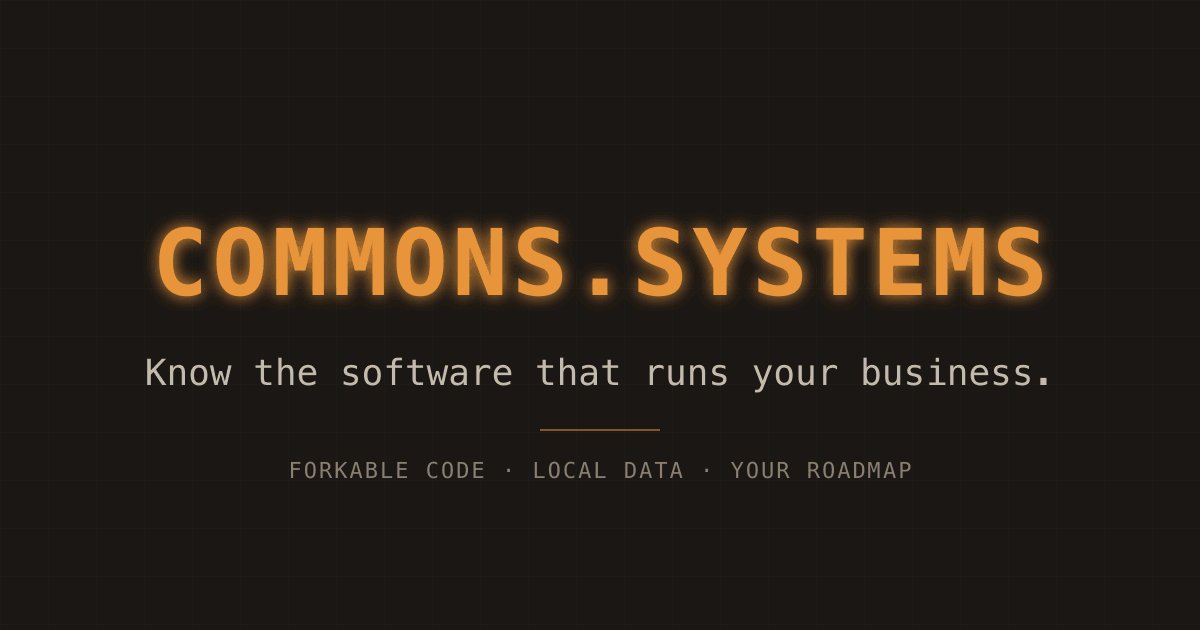
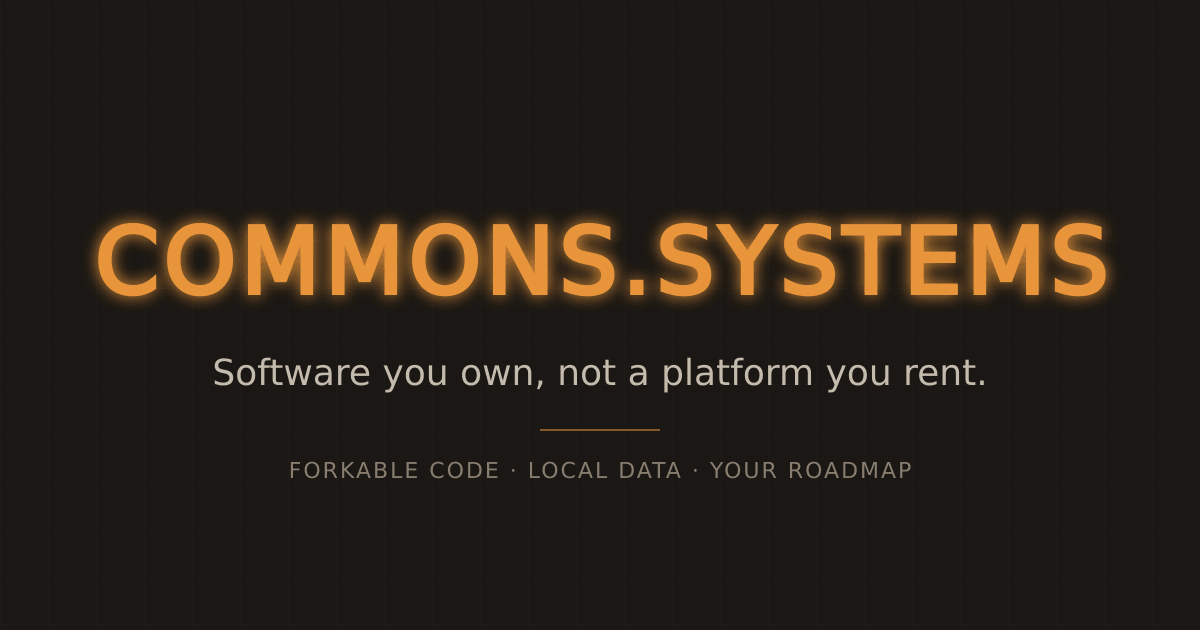
Reposition the landing hero around owned, intent-aligned autonomy — tagline moves from a knowing/feature register to ownership / not-a-platform, synced byte-identical across the four coupled surfaces (hero tagline, meta description, site-config description, OG card) with the OG PNG regenerated (#210

Changed region(s): [[0.0617, 0.3317, 0.925, 0.4825], [0.1233, 0.573, 0.8633, 0.6333], [0.2467, 0.7238, 0.74, 0.7841]]

diff --git a/landing/index.html b/landing/index.html
@@ -4,7 +4,7 @@
     <meta charset="UTF-8" />
     <meta name="viewport" content="width=device-width, initial-scale=1.0" />
     <meta name="color-scheme" content="dark" />
-    <meta name="description" content="Know the software that runs your business. Forkable, local-first apps built with commons.systems — and running without it." />
+    <meta name="description" content="Software you own, not a platform you rent. Forkable, local-first apps built with commons.systems, and running without it." />
     <title>commons.systems</title>
     <link rel="alternate" type="application/rss+xml" title="commons.systems" href="/feed.xml">
     <link rel="preconnect" href="https://firebaseinstallations.googleapis.com" />
@@ -13,7 +13,7 @@
     <div class="page">
       <header>
         <h1>commons.systems</h1>
-        <p class="tagline">Know the software that runs your business.</p>
+        <p class="tagline">Software you own, not a platform you rent.</p>
         <nav><app-nav id="nav"></app-nav><button id="panel-toggle" class="panel-toggle" aria-label="Toggle info panel" aria-expanded="false">&#9656;</button></nav>
       </header>
       <!-- Filled at runtime by mountHero (main.ts) and at build time by injectHomeExtra (prerender.ts) -->

diff --git a/landing/e2e/hero.spec.ts b/landing/e2e/hero.spec.ts
@@ -10,7 +10,7 @@ test.describe("hero band", () => {
 
     const tagline = page.locator(".page > header .tagline");
     await expect(tagline).toBeVisible();
-    await expect(tagline).toHaveText("Know the software that runs your business.");
+    await expect(tagline).toHaveText("Software you own, not a platform you rent.");
 
     const taglineBox = await tagline.boundingBox();
     const viewport = page.viewportSize();
@@ -25,7 +25,7 @@ test.describe("hero band", () => {
     const tagline = page.locator(".page > header .tagline");
     const innerText = await tagline.evaluate((el) => (el as HTMLElement).innerText);
     const textContent = await tagline.evaluate((el) => el.textContent);
-    expect(innerText).toBe("Know the software that runs your business.");
+    expect(innerText).toBe("Software you own, not a platform you rent.");
     expect(innerText).toBe(textContent);
   });
 

diff --git a/landing/src/site-config.ts b/landing/src/site-config.ts
@@ -27,7 +27,7 @@ export const PERSON: Person = {
 
 export const SITE_DEFAULTS: SiteDefaults = {
   title: "commons.systems",
-  description: "Know the software that runs your business. Forkable, local-first apps built with commons.systems — and running without it.",
+  description: "Software you own, not a platform you rent. Forkable, local-first apps built with commons.systems, and running without it.",
   image: "/og-card.png",
 };
 
